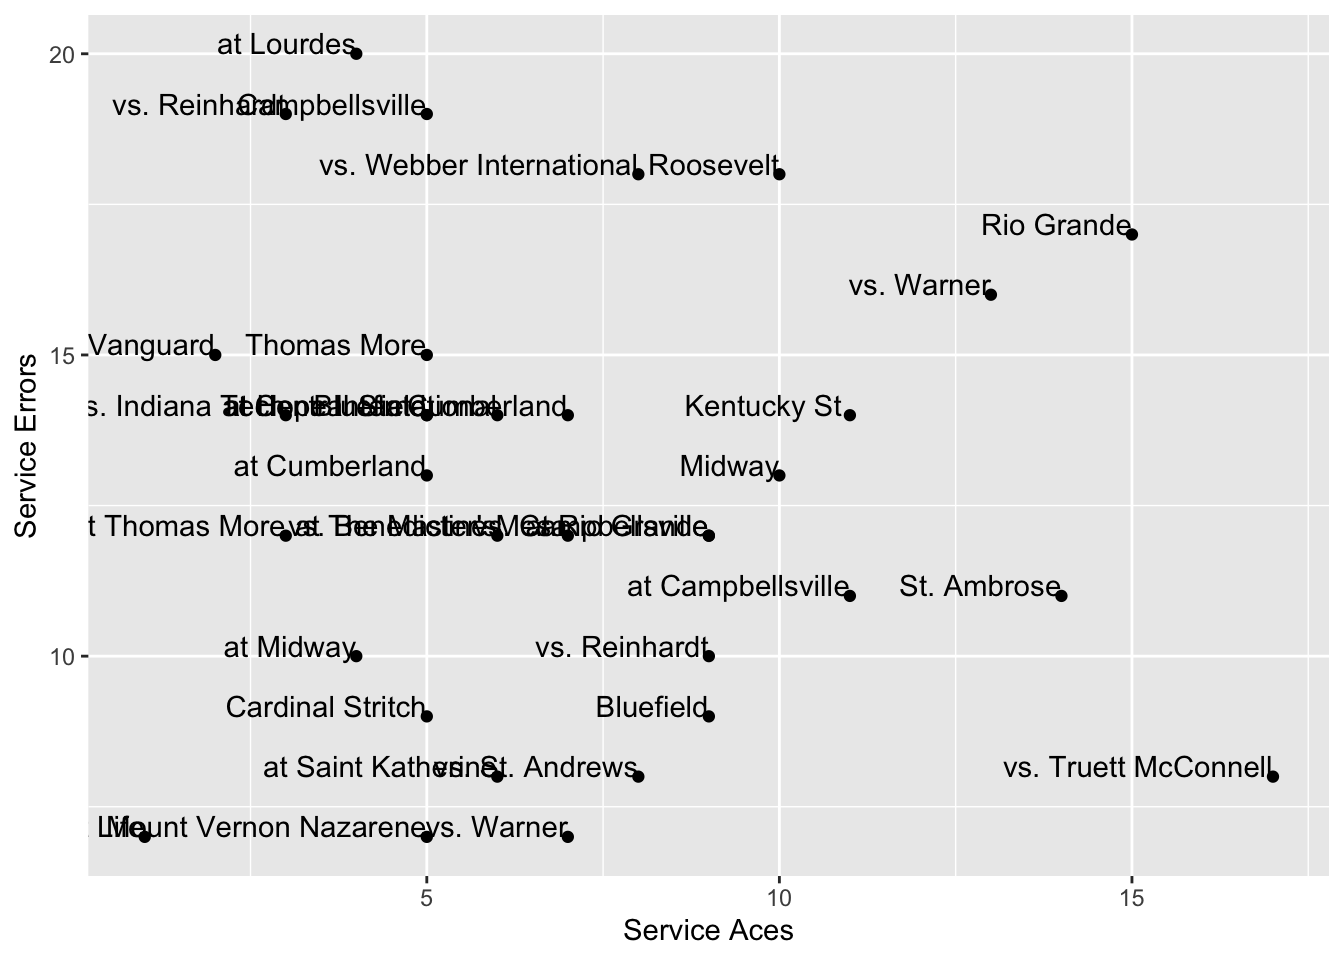
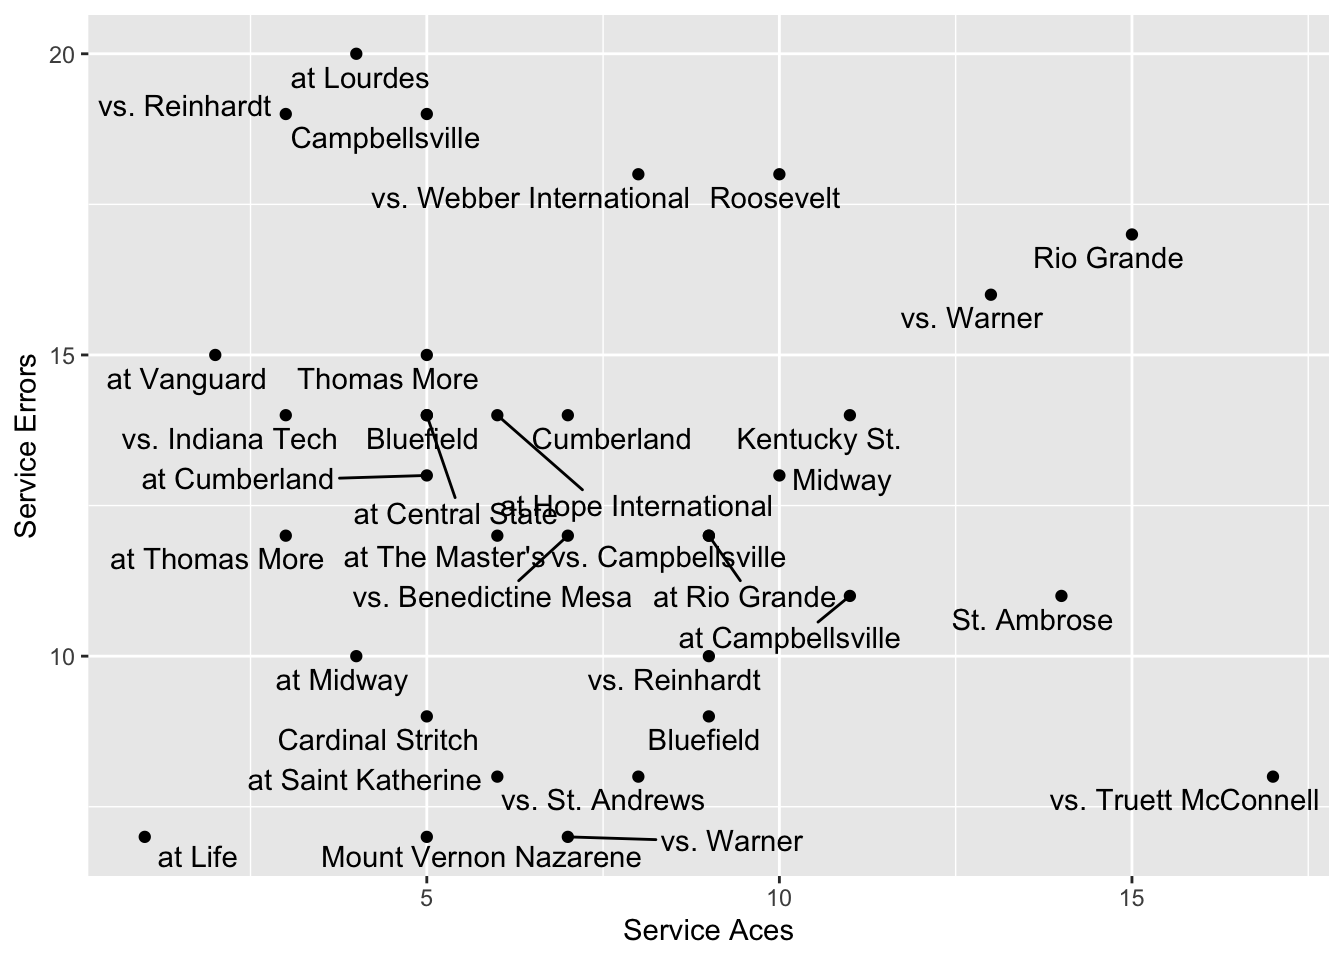
updated personal

diff --git a/docs/articles/article_03.html b/docs/articles/article_03.html
@@ -221,63 +221,50 @@ pre > code.sourceCode > span > a:first-child::before { text-decoration: underlin
 <div class="cell">
 <div class="sourceCode cell-code" id="cb1"><pre class="sourceCode r code-with-copy"><code class="sourceCode r"><span id="cb1-1"><a href="#cb1-1" aria-hidden="true" tabindex="-1"></a><span class="fu">library</span>(rvest)</span>
 <span id="cb1-2"><a href="#cb1-2" aria-hidden="true" tabindex="-1"></a><span class="fu">library</span>(ggplot2)</span>
-<span id="cb1-3"><a href="#cb1-3" aria-hidden="true" tabindex="-1"></a><span class="fu">library</span>(dplyr)</span></code><button title="Copy to Clipboard" class="code-copy-button"><i class="bi"></i></button></pre></div>
-<div class="cell-output cell-output-stderr">
-<pre><code>
-Attaching package: 'dplyr'</code></pre>
-</div>
-<div class="cell-output cell-output-stderr">
-<pre><code>The following objects are masked from 'package:stats':
-
-    filter, lag</code></pre>
-</div>
-<div class="cell-output cell-output-stderr">
-<pre><code>The following objects are masked from 'package:base':
-
-    intersect, setdiff, setequal, union</code></pre>
-</div>
-<div class="sourceCode cell-code" id="cb5"><pre class="sourceCode r code-with-copy"><code class="sourceCode r"><span id="cb5-1"><a href="#cb5-1" aria-hidden="true" tabindex="-1"></a><span class="fu">library</span>(stringr) </span>
-<span id="cb5-2"><a href="#cb5-2" aria-hidden="true" tabindex="-1"></a>url <span class="ot">&lt;-</span> <span class="st">"https://naiastats.prestosports.com/sports/mvball/2021-22/teams/georgetown"</span></span>
-<span id="cb5-3"><a href="#cb5-3" aria-hidden="true" tabindex="-1"></a>tables <span class="ot">&lt;-</span> url <span class="sc">%&gt;%</span> </span>
-<span id="cb5-4"><a href="#cb5-4" aria-hidden="true" tabindex="-1"></a>  <span class="fu">read_html</span>() <span class="sc">%&gt;%</span> </span>
-<span id="cb5-5"><a href="#cb5-5" aria-hidden="true" tabindex="-1"></a>  <span class="fu">html_nodes</span>(<span class="st">"table"</span>) </span>
-<span id="cb5-6"><a href="#cb5-6" aria-hidden="true" tabindex="-1"></a></span>
-<span id="cb5-7"><a href="#cb5-7" aria-hidden="true" tabindex="-1"></a>seasonStats <span class="ot">&lt;-</span> tables <span class="sc">%&gt;%</span></span>
-<span id="cb5-8"><a href="#cb5-8" aria-hidden="true" tabindex="-1"></a>  purrr<span class="sc">::</span><span class="fu">pluck</span>(<span class="dv">4</span>) <span class="sc">%&gt;%</span></span>
-<span id="cb5-9"><a href="#cb5-9" aria-hidden="true" tabindex="-1"></a>  <span class="fu">html_table</span>() </span>
-<span id="cb5-10"><a href="#cb5-10" aria-hidden="true" tabindex="-1"></a></span>
-<span id="cb5-11"><a href="#cb5-11" aria-hidden="true" tabindex="-1"></a>gameLog <span class="ot">&lt;-</span> tables <span class="sc">%&gt;%</span></span>
-<span id="cb5-12"><a href="#cb5-12" aria-hidden="true" tabindex="-1"></a>  purrr<span class="sc">::</span><span class="fu">pluck</span>(<span class="dv">12</span>) <span class="sc">%&gt;%</span></span>
-<span id="cb5-13"><a href="#cb5-13" aria-hidden="true" tabindex="-1"></a>  <span class="fu">html_table</span>() </span></code><button title="Copy to Clipboard" class="code-copy-button"><i class="bi"></i></button></pre></div>
+<span id="cb1-3"><a href="#cb1-3" aria-hidden="true" tabindex="-1"></a><span class="fu">library</span>(dplyr)</span>
+<span id="cb1-4"><a href="#cb1-4" aria-hidden="true" tabindex="-1"></a><span class="fu">library</span>(ggrepel)</span>
+<span id="cb1-5"><a href="#cb1-5" aria-hidden="true" tabindex="-1"></a><span class="fu">library</span>(stringr) </span>
+<span id="cb1-6"><a href="#cb1-6" aria-hidden="true" tabindex="-1"></a>url <span class="ot">&lt;-</span> <span class="st">"https://naiastats.prestosports.com/sports/mvball/2021-22/teams/georgetown"</span></span>
+<span id="cb1-7"><a href="#cb1-7" aria-hidden="true" tabindex="-1"></a>tables <span class="ot">&lt;-</span> url <span class="sc">%&gt;%</span> </span>
+<span id="cb1-8"><a href="#cb1-8" aria-hidden="true" tabindex="-1"></a>  <span class="fu">read_html</span>() <span class="sc">%&gt;%</span> </span>
+<span id="cb1-9"><a href="#cb1-9" aria-hidden="true" tabindex="-1"></a>  <span class="fu">html_nodes</span>(<span class="st">"table"</span>) </span>
+<span id="cb1-10"><a href="#cb1-10" aria-hidden="true" tabindex="-1"></a></span>
+<span id="cb1-11"><a href="#cb1-11" aria-hidden="true" tabindex="-1"></a>seasonStats <span class="ot">&lt;-</span> tables <span class="sc">%&gt;%</span></span>
+<span id="cb1-12"><a href="#cb1-12" aria-hidden="true" tabindex="-1"></a>  purrr<span class="sc">::</span><span class="fu">pluck</span>(<span class="dv">4</span>) <span class="sc">%&gt;%</span></span>
+<span id="cb1-13"><a href="#cb1-13" aria-hidden="true" tabindex="-1"></a>  <span class="fu">html_table</span>() </span>
+<span id="cb1-14"><a href="#cb1-14" aria-hidden="true" tabindex="-1"></a></span>
+<span id="cb1-15"><a href="#cb1-15" aria-hidden="true" tabindex="-1"></a>gameLog <span class="ot">&lt;-</span> tables <span class="sc">%&gt;%</span></span>
+<span id="cb1-16"><a href="#cb1-16" aria-hidden="true" tabindex="-1"></a>  purrr<span class="sc">::</span><span class="fu">pluck</span>(<span class="dv">12</span>) <span class="sc">%&gt;%</span></span>
+<span id="cb1-17"><a href="#cb1-17" aria-hidden="true" tabindex="-1"></a>  <span class="fu">html_table</span>() </span></code><button title="Copy to Clipboard" class="code-copy-button"><i class="bi"></i></button></pre></div>
 </div>
 <p>To make a visualizion of the Top 5 people with the most kills in the season, we first need to modify the seasonStats table. This modified table is going to be called topKillers. The name, which is shown with many spaces in between first name and last name, needs to be properly shown which I did with the help of the mutate function to get rid of the unneccessary spaces. Then the table is arranged in descending order by the amount of kills, and only the name and the amount of kills is selected. Finally the table is limited to the top 5 entries with the head()-command.</p>
 <div class="cell">
-<div class="sourceCode cell-code" id="cb6"><pre class="sourceCode r code-with-copy"><code class="sourceCode r"><span id="cb6-1"><a href="#cb6-1" aria-hidden="true" tabindex="-1"></a>topKillers <span class="ot">&lt;-</span> seasonStats <span class="sc">%&gt;%</span> </span>
-<span id="cb6-2"><a href="#cb6-2" aria-hidden="true" tabindex="-1"></a>  <span class="fu">mutate</span>(<span class="at">name=</span> <span class="fu">gsub</span>(<span class="st">"</span><span class="sc">\\</span><span class="st">s+"</span>, <span class="st">" "</span>, <span class="fu">str_trim</span>(Name))) <span class="sc">%&gt;%</span> </span>
-<span id="cb6-3"><a href="#cb6-3" aria-hidden="true" tabindex="-1"></a>  <span class="fu">arrange</span>(<span class="fu">desc</span>(k)) <span class="sc">%&gt;%</span> </span>
-<span id="cb6-4"><a href="#cb6-4" aria-hidden="true" tabindex="-1"></a>  <span class="fu">select</span>(<span class="st">"name"</span>, <span class="st">"k"</span>) <span class="sc">%&gt;%</span> </span>
-<span id="cb6-5"><a href="#cb6-5" aria-hidden="true" tabindex="-1"></a>  <span class="fu">head</span>(<span class="dv">5</span>) </span></code><button title="Copy to Clipboard" class="code-copy-button"><i class="bi"></i></button></pre></div>
+<div class="sourceCode cell-code" id="cb2"><pre class="sourceCode r code-with-copy"><code class="sourceCode r"><span id="cb2-1"><a href="#cb2-1" aria-hidden="true" tabindex="-1"></a>topKillers <span class="ot">&lt;-</span> seasonStats <span class="sc">%&gt;%</span> </span>
+<span id="cb2-2"><a href="#cb2-2" aria-hidden="true" tabindex="-1"></a>  <span class="fu">mutate</span>(<span class="at">name=</span> <span class="fu">gsub</span>(<span class="st">"</span><span class="sc">\\</span><span class="st">s+"</span>, <span class="st">" "</span>, <span class="fu">str_trim</span>(Name))) <span class="sc">%&gt;%</span> </span>
+<span id="cb2-3"><a href="#cb2-3" aria-hidden="true" tabindex="-1"></a>  <span class="fu">arrange</span>(<span class="fu">desc</span>(k)) <span class="sc">%&gt;%</span> </span>
+<span id="cb2-4"><a href="#cb2-4" aria-hidden="true" tabindex="-1"></a>  <span class="fu">select</span>(<span class="st">"name"</span>, <span class="st">"k"</span>) <span class="sc">%&gt;%</span> </span>
+<span id="cb2-5"><a href="#cb2-5" aria-hidden="true" tabindex="-1"></a>  <span class="fu">head</span>(<span class="dv">5</span>) </span></code><button title="Copy to Clipboard" class="code-copy-button"><i class="bi"></i></button></pre></div>
 </div>
 <p>Next we need to make the plot from the topKillers table we created. To do so, we put the name on the x axis (had to reorder it by the number of kills, so it is in order) and the number of kills on the y-Axis. We used geom_col() to produce a bar chart with a different column for each player. Latsly, we add the axis titles “Name” and “Kills”.</p>
 <div class="cell">
-<div class="sourceCode cell-code" id="cb7"><pre class="sourceCode r code-with-copy"><code class="sourceCode r"><span id="cb7-1"><a href="#cb7-1" aria-hidden="true" tabindex="-1"></a>killersGraphic <span class="ot">&lt;-</span> topKillers <span class="sc">%&gt;%</span> </span>
-<span id="cb7-2"><a href="#cb7-2" aria-hidden="true" tabindex="-1"></a>  <span class="fu">ggplot</span>(<span class="fu">aes</span>(<span class="at">x=</span><span class="fu">reorder</span>(name,k), <span class="at">y=</span>k)) <span class="sc">+</span></span>
-<span id="cb7-3"><a href="#cb7-3" aria-hidden="true" tabindex="-1"></a>  <span class="fu">geom_col</span>()<span class="sc">+</span></span>
-<span id="cb7-4"><a href="#cb7-4" aria-hidden="true" tabindex="-1"></a>  <span class="fu">labs</span>(<span class="at">x=</span><span class="st">"Player"</span>, <span class="at">y=</span><span class="st">"Kills"</span>)</span>
-<span id="cb7-5"><a href="#cb7-5" aria-hidden="true" tabindex="-1"></a>killersGraphic</span></code><button title="Copy to Clipboard" class="code-copy-button"><i class="bi"></i></button></pre></div>
+<div class="sourceCode cell-code" id="cb3"><pre class="sourceCode r code-with-copy"><code class="sourceCode r"><span id="cb3-1"><a href="#cb3-1" aria-hidden="true" tabindex="-1"></a>killersGraphic <span class="ot">&lt;-</span> topKillers <span class="sc">%&gt;%</span> </span>
+<span id="cb3-2"><a href="#cb3-2" aria-hidden="true" tabindex="-1"></a>  <span class="fu">ggplot</span>(<span class="fu">aes</span>(<span class="at">x=</span><span class="fu">reorder</span>(name,k), <span class="at">y=</span>k)) <span class="sc">+</span></span>
+<span id="cb3-3"><a href="#cb3-3" aria-hidden="true" tabindex="-1"></a>  <span class="fu">geom_col</span>()<span class="sc">+</span></span>
+<span id="cb3-4"><a href="#cb3-4" aria-hidden="true" tabindex="-1"></a>  <span class="fu">labs</span>(<span class="at">x=</span><span class="st">"Player"</span>, <span class="at">y=</span><span class="st">"Kills"</span>)</span>
+<span id="cb3-5"><a href="#cb3-5" aria-hidden="true" tabindex="-1"></a>killersGraphic</span></code><button title="Copy to Clipboard" class="code-copy-button"><i class="bi"></i></button></pre></div>
 <div class="cell-output-display">
 <p><img src="article_03_files/figure-html/unnamed-chunk-3-1.png" class="img-fluid" width="672"></p>
 </div>
 </div>
 <p>The second visualization shall show the relationship of service aces and service errors from our team for each game of the season. We produce an “acesErrors”- graphic from the “gameLog”-table we pulled from the NAIA website. First, we need to get rid of the extra spaces in the name of the opponent team with the help of the mutate()-function. Next, we create a plot with with ggplot, where the serice aces are on the x-Axis and the service errors are on the y-Axis. Then we add geom_point() to show the points for eacch game and geom_text to label each point with the opponent’s team’s name. Lastly we add the labels “Serice Aces” for the x-Axis and “Service Errors” for the y-Axis.</p>
 <div class="cell">
-<div class="sourceCode cell-code" id="cb8"><pre class="sourceCode r code-with-copy"><code class="sourceCode r"><span id="cb8-1"><a href="#cb8-1" aria-hidden="true" tabindex="-1"></a>acesErrors <span class="ot">&lt;-</span> gameLog <span class="sc">%&gt;%</span> </span>
-<span id="cb8-2"><a href="#cb8-2" aria-hidden="true" tabindex="-1"></a>  <span class="fu">mutate</span>(<span class="at">opponent=</span> <span class="fu">gsub</span>(<span class="st">"</span><span class="sc">\\</span><span class="st">s+"</span>, <span class="st">" "</span>, <span class="fu">str_trim</span>(Opponent))) <span class="sc">%&gt;%</span> </span>
-<span id="cb8-3"><a href="#cb8-3" aria-hidden="true" tabindex="-1"></a>  <span class="fu">ggplot</span>(<span class="fu">aes</span>(<span class="at">x=</span>sa,<span class="at">y=</span>se))<span class="sc">+</span></span>
-<span id="cb8-4"><a href="#cb8-4" aria-hidden="true" tabindex="-1"></a>  <span class="fu">geom_point</span>()<span class="sc">+</span></span>
-<span id="cb8-5"><a href="#cb8-5" aria-hidden="true" tabindex="-1"></a>  <span class="fu">geom_text</span>(<span class="fu">aes</span>(<span class="at">label=</span>opponent),<span class="at">hjust=</span><span class="dv">1</span>, <span class="at">vjust=</span><span class="dv">0</span>)<span class="sc">+</span></span>
-<span id="cb8-6"><a href="#cb8-6" aria-hidden="true" tabindex="-1"></a>  <span class="fu">labs</span>(<span class="at">x=</span><span class="st">"Service Aces"</span>,<span class="at">y=</span><span class="st">"Service Errors"</span>)</span>
-<span id="cb8-7"><a href="#cb8-7" aria-hidden="true" tabindex="-1"></a>acesErrors</span></code><button title="Copy to Clipboard" class="code-copy-button"><i class="bi"></i></button></pre></div>
+<div class="sourceCode cell-code" id="cb4"><pre class="sourceCode r code-with-copy"><code class="sourceCode r"><span id="cb4-1"><a href="#cb4-1" aria-hidden="true" tabindex="-1"></a>acesErrors <span class="ot">&lt;-</span> gameLog <span class="sc">%&gt;%</span> </span>
+<span id="cb4-2"><a href="#cb4-2" aria-hidden="true" tabindex="-1"></a>  <span class="fu">mutate</span>(<span class="at">opponent=</span> <span class="fu">gsub</span>(<span class="st">"</span><span class="sc">\\</span><span class="st">s+"</span>, <span class="st">" "</span>, <span class="fu">str_trim</span>(Opponent))) <span class="sc">%&gt;%</span> </span>
+<span id="cb4-3"><a href="#cb4-3" aria-hidden="true" tabindex="-1"></a>  <span class="fu">ggplot</span>(<span class="fu">aes</span>(<span class="at">x=</span>sa,<span class="at">y=</span>se))<span class="sc">+</span></span>
+<span id="cb4-4"><a href="#cb4-4" aria-hidden="true" tabindex="-1"></a>  <span class="fu">geom_point</span>()<span class="sc">+</span></span>
+<span id="cb4-5"><a href="#cb4-5" aria-hidden="true" tabindex="-1"></a>  <span class="fu">geom_text_repel</span>(<span class="fu">aes</span>(<span class="at">label=</span>opponent),<span class="at">hjust=</span><span class="dv">1</span>, <span class="at">vjust=</span><span class="dv">0</span>)<span class="sc">+</span></span>
+<span id="cb4-6"><a href="#cb4-6" aria-hidden="true" tabindex="-1"></a>  <span class="fu">labs</span>(<span class="at">x=</span><span class="st">"Service Aces"</span>,<span class="at">y=</span><span class="st">"Service Errors"</span>)</span>
+<span id="cb4-7"><a href="#cb4-7" aria-hidden="true" tabindex="-1"></a>acesErrors</span></code><button title="Copy to Clipboard" class="code-copy-button"><i class="bi"></i></button></pre></div>
 <div class="cell-output-display">
 <p><img src="article_03_files/figure-html/unnamed-chunk-4-1.png" class="img-fluid" width="672"></p>
 </div>

diff --git a/docs/articles/index.html b/docs/articles/index.html
@@ -260,7 +260,7 @@ ul.task-list li input[type="checkbox"] {
 </tr>
 </thead>
 <tbody class="list">
-<tr data-index="0" data-listing-file-modified-sort="1701040323666" data-listing-reading-time-sort="3" data-listing-title-sort="Making Graphics with Data from the Web" data-listing-filename-sort="article_03.rmd">
+<tr data-index="0" data-listing-file-modified-sort="1701206366450" data-listing-reading-time-sort="3" data-listing-title-sort="Making Graphics with Data from the Web" data-listing-filename-sort="article_03.rmd">
 <td>
 <a href="../articles/article_03.html" class="title listing-title">Making Graphics with Data from the Web</a>
 </td>
@@ -277,7 +277,7 @@ ul.task-list li input[type="checkbox"] {
 </td>
 </tr>
 
-<tr data-index="2" data-listing-file-modified-sort="1701040326611" data-listing-reading-time-sort="4" data-listing-title-sort="Table-Sort Assignment" data-listing-filename-sort="article_02.qmd">
+<tr data-index="2" data-listing-file-modified-sort="1701206370356" data-listing-reading-time-sort="4" data-listing-title-sort="Table-Sort Assignment" data-listing-filename-sort="article_02.qmd">
 <td>
 <a href="../articles/article_02.html" class="title listing-title">Table-Sort Assignment</a>
 </td>
